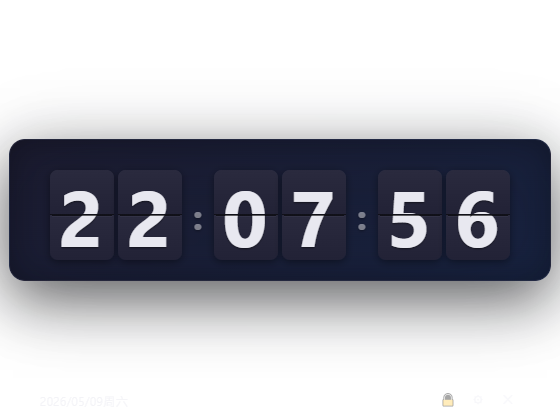
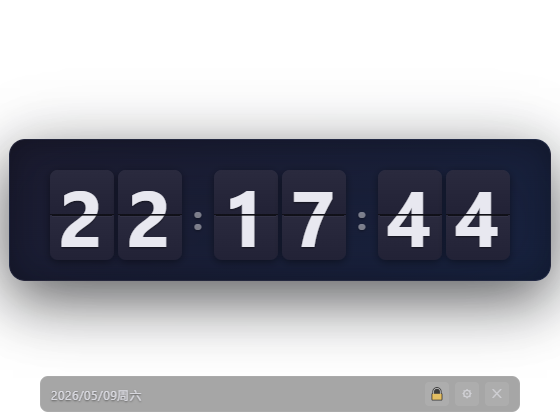
Improve bottom bar visibility on light backgrounds
- Add semi-transparent dark backdrop with blur to bottom bar
- Increase date text opacity: 0.5 → 0.85, add text shadow
- Increase button color opacity: 0.35 → 0.65
- Increase button background opacity: 0.04 → 0.08
- Add subtle border to bottom bar pill
- Regenerate all screenshots with updated UI

Changed region(s): [[0.0607, 0.8976, 0.9411, 0.9905], [0.6679, 0.4333, 0.9107, 0.5881], [0.3946, 0.4333, 0.4857, 0.5881]]

diff --git a/src/css/style.css b/src/css/style.css
@@ -295,14 +295,21 @@ body {
   display: flex;
   align-items: center;
   justify-content: space-between;
+  background: rgba(0, 0, 0, 0.35);
+  backdrop-filter: blur(6px);
+  -webkit-backdrop-filter: blur(6px);
+  border-radius: 8px;
+  padding: 5px 10px;
+  border: 1px solid rgba(255, 255, 255, 0.06);
 }
 
 #date-display {
   font-size: 12px;
-  color: rgba(232, 232, 240, 0.5);
+  color: rgba(232, 232, 240, 0.85);
   font-family: 'Segoe UI', sans-serif;
   letter-spacing: 0.5px;
-  font-weight: 300;
+  font-weight: 400;
+  text-shadow: 0 1px 2px rgba(0, 0, 0, 0.5);
 }
 
 #action-buttons {
@@ -314,9 +321,9 @@ body {
   width: 24px;
   height: 24px;
   border: none;
-  background: rgba(255, 255, 255, 0.04);
+  background: rgba(255, 255, 255, 0.08);
   border-radius: 4px;
-  color: rgba(232, 232, 240, 0.35);
+  color: rgba(232, 232, 240, 0.65);
   font-size: 12px;
   cursor: pointer;
   display: flex;
@@ -327,12 +334,12 @@ body {
 }
 
 #action-buttons button:hover {
-  background: rgba(255, 255, 255, 0.10);
-  color: rgba(232, 232, 240, 0.7);
+  background: rgba(255, 255, 255, 0.18);
+  color: rgba(232, 232, 240, 0.95);
 }
 
 #btn-close-widget:hover {
-  background: rgba(255, 60, 60, 0.2);
+  background: rgba(255, 60, 60, 0.35);
   color: #ff6b6b;
 }
 
